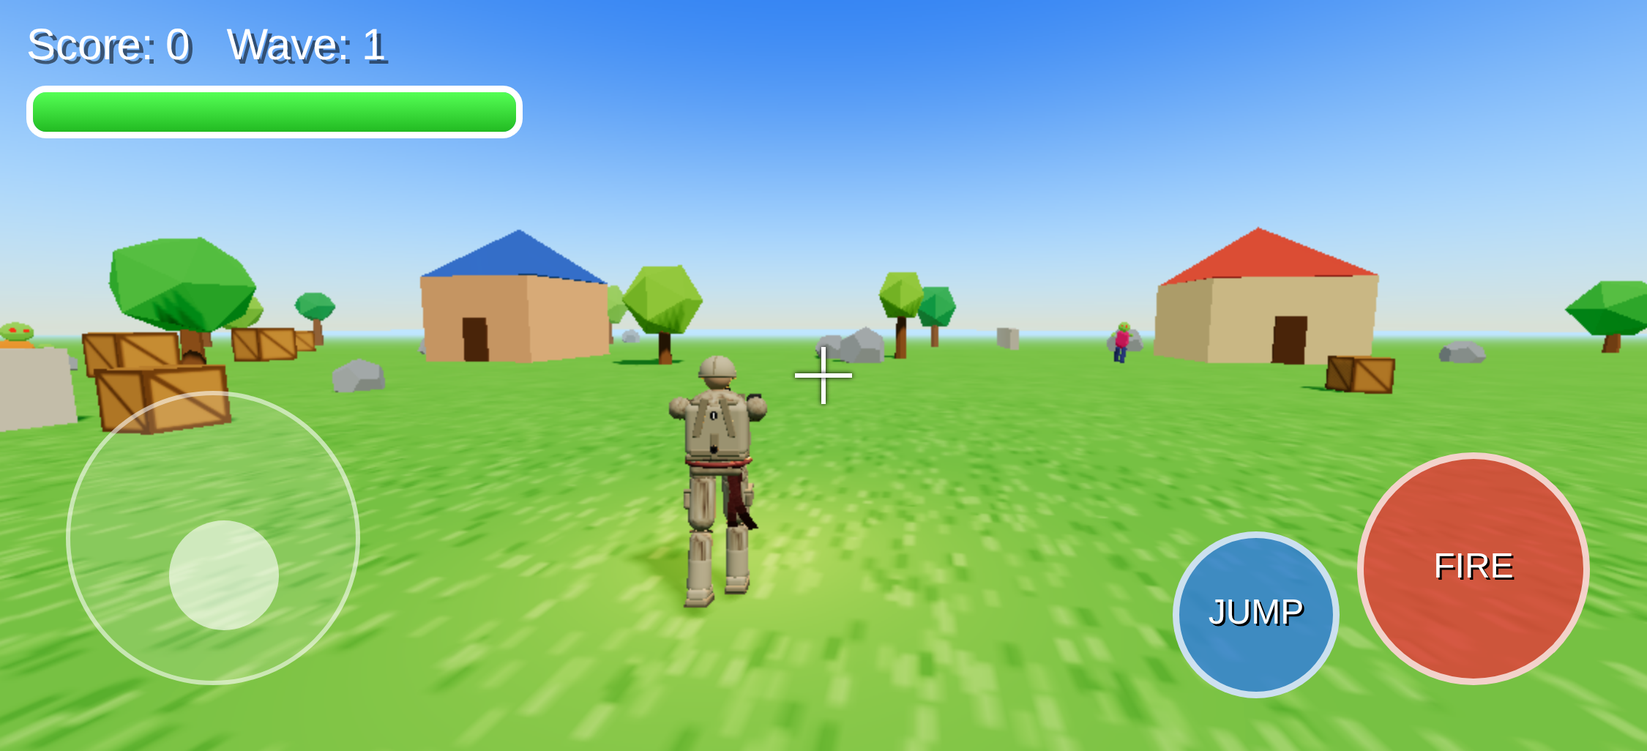
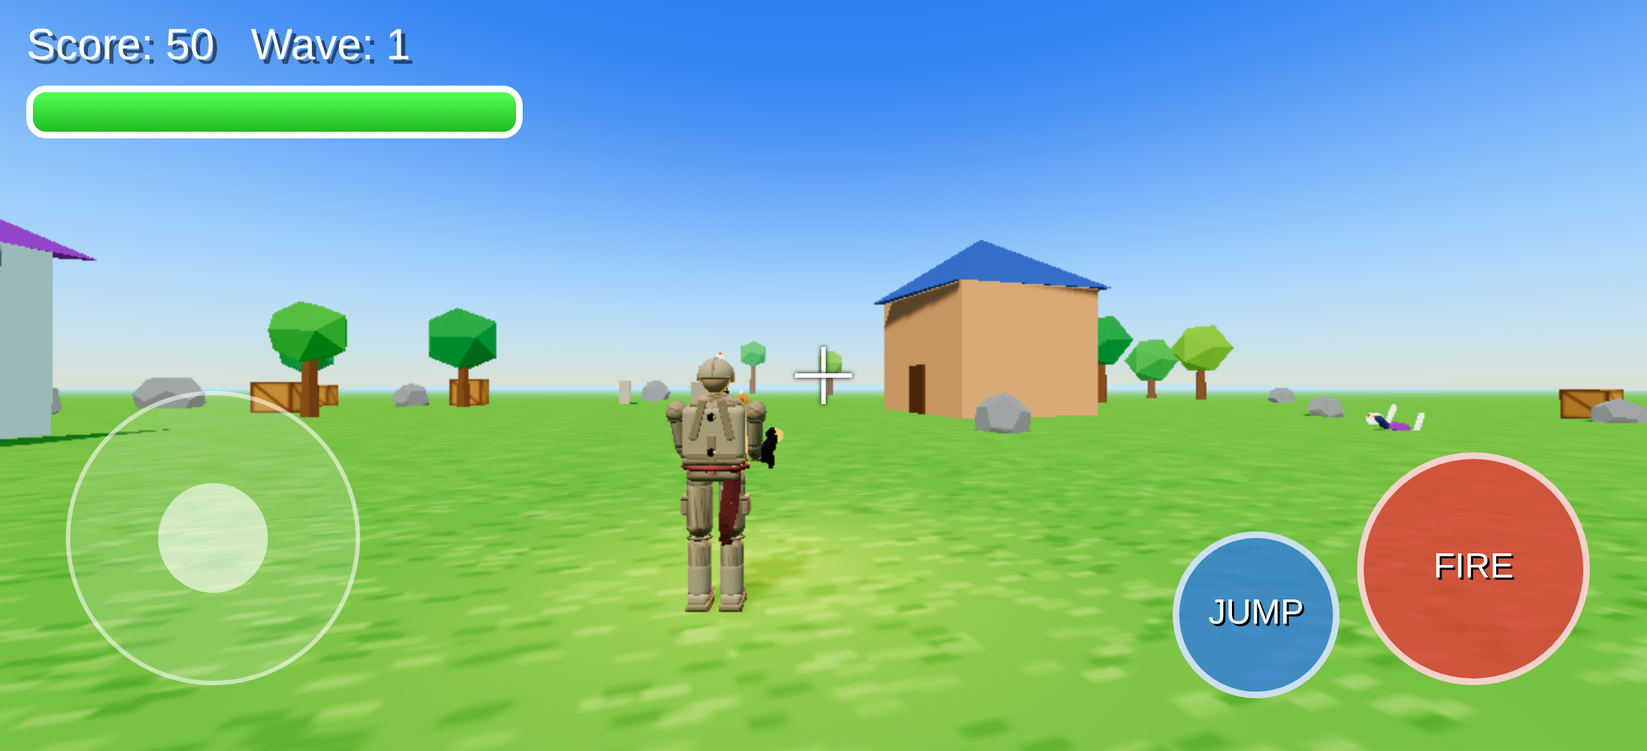
Auto-aim, decapitation, helicopter+parachute intro, pose/hose fixes

diff --git a/main.js b/main.js
@@ -1,4 +1,4 @@
-import * as THREE from 'three';import {makeSoldier} from './soldier.js';
+import * as THREE from 'three';import {makeSoldier} from './soldier.js';import {makeHeli,makeChute} from './heli.js';
 const $=id=>document.getElementById(id),Q=new URLSearchParams(location.search);
 const MOBILE=matchMedia('(pointer:coarse)').matches||'ontouchstart' in window;
 if(MOBILE)document.body.classList.add('touch');
@@ -45,14 +45,14 @@ let ac;const snd=(f,d,type='square',v=.15,slide=.3)=>{if(!ac)return;const o=ac.c
  g.gain.setValueAtTime(v,ac.currentTime);g.gain.exponentialRampToValueAtTime(.001,ac.currentTime+d);o.connect(g).connect(ac.destination);o.start();o.stop(ac.currentTime+d);};
 // input
 let yaw=0,pitch=-.1,firing=false,running=false;const keys={};
-addEventListener('keydown',e=>{keys[e.code]=true;if(e.code==='Space'){jump();e.preventDefault();}});addEventListener('keyup',e=>keys[e.code]=false);
+addEventListener('keydown',e=>{keys[e.code]=true;if(mode==='intro'){skipIntro();return;}if(e.code==='Space'){jump();e.preventDefault();}});addEventListener('keyup',e=>keys[e.code]=false);
 const cv=renderer.domElement;
-cv.addEventListener('mousedown',()=>{if(!running||MOBILE)return;if(document.pointerLockElement!==cv){try{const r=cv.requestPointerLock();r&&r.catch&&r.catch(()=>{});}catch(e){}}firing=true;});
+cv.addEventListener('mousedown',()=>{if(mode==='intro'){skipIntro();return;}if(!running||MOBILE)return;if(document.pointerLockElement!==cv){try{const r=cv.requestPointerLock();r&&r.catch&&r.catch(()=>{});}catch(e){}}firing=true;});
 addEventListener('mouseup',()=>firing=false);
 addEventListener('mousemove',e=>{if(document.pointerLockElement===cv&&Math.abs(e.movementX)<150&&Math.abs(e.movementY)<150)look(e.movementX,e.movementY,.0025);});
 const look=(dx,dy,k)=>{yaw-=dx*k;pitch=THREE.MathUtils.clamp(pitch-dy*k,-.7,.55);};
 const stick={id:null,ox:0,oy:0,x:0,y:0},lk={id:null,x:0,y:0};let fireId=null;const knob=$('stick').firstChild;
-addEventListener('touchstart',e=>{if(e.target.tagName==='BUTTON')return;e.preventDefault();document.body.classList.add('touch');
+addEventListener('touchstart',e=>{if(e.target.tagName==='BUTTON')return;e.preventDefault();if(mode==='intro'){skipIntro();return;}document.body.classList.add('touch');
  for(const t of e.changedTouches){const el=t.target;if(el.id==='jumpBtn'){jump();continue;}
   if(el.id==='fireBtn'){fireId=t.identifier;if(lk.id===null)Object.assign(lk,{id:t.identifier,x:t.clientX,y:t.clientY});continue;}
   if(t.clientX<innerWidth/2&&stick.id===null){const r=$('stick').getBoundingClientRect();Object.assign(stick,{id:t.identifier,ox:r.left+65,oy:r.top+65});moveStick(t);}
@@ -68,15 +68,14 @@ addEventListener('resize',onResize);addEventListener('orientationchange',()=>set
 const zSkin=toon(0x7fdc4a),shirts=[0xa04fd9,0xff8c2a,0x2ab3ff,0xe03a7a].map(c=>toon(c)),zPants=toon(0x3d4a8a),eyeM=new THREE.MeshBasicMaterial({color:0xff2a00});
 function makeZombie(){const g=new THREE.Group(),mats=[zSkin.clone(),shirts[Math.random()*4|0].clone(),zPants.clone()];mats.forEach(m=>m.transparent=true);
  const M=(geo,m,x,y,z,p=g)=>{const o=new THREE.Mesh(geo,m);o.position.set(x,y,z);o.castShadow=true;p.add(o);o.userData.root=g;return o};
- M(new THREE.CapsuleGeometry(.26,.35,4,10),mats[1],0,1.3,0).scale.set(1.1,1,.7);M(new THREE.SphereGeometry(.24,14,10),mats[0],0,1.9,.06);
- M(new THREE.SphereGeometry(.05,8,6),eyeM,-.09,1.94,.27);M(new THREE.SphereGeometry(.05,8,6),eyeM,.09,1.94,.27);
+ M(new THREE.CapsuleGeometry(.26,.35,4,10),mats[1],0,1.3,0).scale.set(1.1,1,.7);const head=M(new THREE.SphereGeometry(.24,14,10),mats[0],0,1.9,.06);M(new THREE.SphereGeometry(.05,8,6),eyeM,-.09,.04,.21,head);M(new THREE.SphereGeometry(.05,8,6),eyeM,.09,.04,.21,head);
  const legs=[];for(const x of[-.15,.15]){const l=new THREE.Group();l.position.set(x,.95,0);g.add(l);M(new THREE.CapsuleGeometry(.11,.65,4,8),mats[2],0,-.47,0,l);legs.push(l);}
  const arms=[];for(const x of[-.38,.38]){const a=new THREE.Group();a.position.set(x,1.55,0);g.add(a);M(new THREE.CapsuleGeometry(.08,.55,4,8),mats[0],0,-.35,0,a);a.rotation.x=-1.5;arms.push(a);}
- g.userData={legs,arms,mats,hp:0,dead:0,ph:Math.random()*6};return g;}
+ g.userData={legs,arms,mats,head,hp:0,dead:0,ph:Math.random()*6};return g;}
 let zombies=[],tracers=[],score=0,wave=0,hp=100,toSpawn=0,spawnT=0,fireT=0,vy=0,anim=0,curSpeed=0;
 const ZCAP=MOBILE?14:30;
-function reset(){zombies.forEach(z=>scene.remove(z));zombies=[];score=0;wave=0;hp=100;player.position.set(0,0,0);yaw=0;pitch=-.1;vy=0;nextWave();updHud();}
-function nextWave(){wave++;toSpawn=4+wave*3;spawnT=1;snd(200,.6,'sawtooth',.1,2);}
+function reset(){toSpawn=0;debris.forEach(d=>scene.remove(d.o));debris=[];lockT=null;zombies.forEach(z=>scene.remove(z));zombies=[];score=0;wave=0;hp=100;player.position.set(0,0,0);yaw=0;pitch=-.1;vy=0;nextWave();updHud();}
+function nextWave(){if(mode!=='play')return;wave++;toSpawn=4+wave*3;spawnT=1;snd(200,.6,'sawtooth',.1,2);}
 function spawn(){const z=makeZombie();let x,zz,tries=0;do{const a=Math.random()*Math.PI*2,r=rnd(22,32);x=player.position.x+Math.cos(a)*r;zz=player.position.z+Math.sin(a)*r;x=THREE.MathUtils.clamp(x,-ARENA,ARENA);zz=THREE.MathUtils.clamp(zz,-ARENA,ARENA);}
  while(tries++<10&&boxes.some(b=>Math.abs(b.x-x)<b.hx+.5&&Math.abs(b.z-zz)<b.hz+.5));z.position.set(x,0,zz);
  z.userData.hp=2+Math.floor(wave/2);z.userData.speed=1.4+wave*.15+Math.random()*.6;scene.add(z);zombies.push(z);}
@@ -86,10 +85,10 @@ function collide(p,r){for(const b of boxes){const cx=THREE.MathUtils.clamp(p.x,b
 function jump(){if(running&&player.position.y<=0.001){vy=6.5;snd(300,.15,'sine',.1,2);}}
 const rc=new THREE.Raycaster(),center=new THREE.Vector2(0,0);
 function shoot(){const u=player.userData;u.flash.visible=true;u.flashLight.intensity=8;u.flash.rotation.z=Math.random()*3;setTimeout(()=>{u.flash.visible=false;u.flashLight.intensity=0;},45);snd(900,.08,'square',.12,.2);
- rc.setFromCamera(center,cam);rc.far=120;const hits=rc.intersectObjects([...zombies.filter(z=>!z.userData.dead),...solids,ground],true);
+ if(lockT){const hp_=new THREE.Vector3();lockT.userData.head.getWorldPosition(hp_);rc.set(cam.position,hp_.sub(cam.position).normalize());}else rc.setFromCamera(center,cam);rc.far=120;const hits=rc.intersectObjects([...zombies.filter(z=>!z.userData.dead),...solids,ground],true);
  const o=new THREE.Vector3();u.muzzle.getWorldPosition(o);let end=hits.length?hits[0].point:rc.ray.at(120,new THREE.Vector3());
  if(hits.length){const z=hits[0].object.userData.root;if(z&&!z.userData.dead){z.userData.hp--;z.userData.hit=.1;const p=end.clone().sub(o).setY(0).normalize();z.position.addScaledVector(p,.25);
-  if(z.userData.hp<=0){z.userData.dead=.001;score+=10;snd(120,.4,'sawtooth',.15,.5);updHud();}}}
+  if(z.userData.hp<=0){z.userData.dead=.001;decap(z,p);score+=10;snd(120,.4,'sawtooth',.15,.5);updHud();}}}
  const t=new THREE.Line(new THREE.BufferGeometry().setFromPoints([o,end]),new THREE.LineBasicMaterial({color:0xfff27a,transparent:true}));t.userData.life=.06;scene.add(t);tracers.push(t);}
 const camRc=new THREE.Raycaster();const clock=new THREE.Clock();const closeup=Q.get('view')==='closeup';
 const fwd=new THREE.Vector3(),right=new THREE.Vector3(),v=new THREE.Vector3();
@@ -100,26 +99,80 @@ function loop(){requestAnimationFrame(loop);const dt=Math.min(clock.getDelta(),.
   player.position.addScaledVector(v,m?6.5*dt:0);collide(player.position,.4);curSpeed=m;anim+=dt*(m?1:0);
   vy-=20*dt;player.position.y=Math.max(0,player.position.y+vy*dt);if(player.position.y===0)vy=0;
   player.rotation.y=yaw+Math.PI;
-  fireT-=dt;if((firing||fireId!==null)&&fireT<=0){shoot();fireT=.1;}
+  autoAim(dt);fireT-=dt;if((firing||fireId!==null)&&fireT<=0){shoot();fireT=.1;}
   const alive=zombies.filter(z=>!z.userData.dead).length;
   if(toSpawn>0){spawnT-=dt;if(spawnT<=0&&alive<ZCAP){spawn();toSpawn--;spawnT=Math.max(.35,1.4-wave*.1);}}else if(!zombies.length){nextWave();updHud();}
   for(const z of [...zombies]){const u=z.userData;
-   if(u.dead){u.dead+=dt;z.rotation.x=Math.max(-Math.PI/2,-u.dead*3);u.mats.forEach(m=>m.opacity=Math.max(0,1-(u.dead-.6)));if(u.dead>1.7){scene.remove(z);zombies.splice(zombies.indexOf(z),1);}continue;}
+   if(u.dead){u.dead+=dt;z.rotation.x=Math.max(-Math.PI/2,-u.dead*3);u.mats.forEach(m=>m.opacity=Math.max(0,1-(u.dead-3)));if(u.dead>4.1){scene.remove(z);zombies.splice(zombies.indexOf(z),1);}continue;}
    if(u.hit>0){u.hit-=dt;u.mats[0].emissive.setHex(0xffffff);}else u.mats[0].emissive.setHex(0);
    const d=player.position.clone().sub(z.position);d.y=0;const dist=d.length();z.rotation.y=Math.atan2(d.x,d.z);u.ph+=dt*5;
    u.legs[0].rotation.x=Math.sin(u.ph)*.45;u.legs[1].rotation.x=-Math.sin(u.ph)*.45;u.arms[0].rotation.x=-1.5+Math.sin(u.ph)*.12;u.arms[1].rotation.x=-1.5-Math.sin(u.ph)*.12;z.rotation.z=Math.sin(u.ph*.5)*.12;
    if(dist>1){z.position.addScaledVector(d.normalize(),u.speed*dt);collide(z.position,.35);}
    else if(player.position.y<1.2){hp-=22*dt;updHud();if(Math.random()<dt*3)snd(80,.2,'sawtooth',.1,.5);
-    if(hp<=0){running=false;firing=false;fireId=null;document.body.classList.remove('playing');document.exitPointerLock&&document.exitPointerLock();$('final').textContent=`Score ${score} · Wave ${wave}`;$('over').classList.remove('hide');snd(300,1.2,'sawtooth',.2,.1);}}}
+    if(hp<=0){running=false;mode='over';lockT=null;firing=false;fireId=null;document.body.classList.remove('playing');document.exitPointerLock&&document.exitPointerLock();$('final').textContent=`Score ${score} · Wave ${wave}`;$('over').classList.remove('hide');snd(300,1.2,'sawtooth',.2,.1);}}}
  }
- player.userData.animate(T,curSpeed,player.position.y>.05,dt);
+ if(mode==='intro')intro(dt);updDebris(dt);updLock();
+ player.userData.animate(T,curSpeed,mode==='intro'?introAir:player.position.y>.05,dt);
  for(const t of [...tracers]){t.userData.life-=dt;t.material.opacity=t.userData.life/.06;if(t.userData.life<=0){scene.remove(t);t.geometry.dispose();tracers.splice(tracers.indexOf(t),1);}}
  const P=player.position;
- if(closeup&&!running){player.rotation.y=Math.PI*.22;cam.position.set(P.x+.5,1.35,P.z+2.2);cam.lookAt(P.x,1.15,P.z);}
- else{cam.rotation.set(pitch,yaw,0);const f=new THREE.Vector3(0,0,-1).applyEuler(cam.rotation);const piv=new THREE.Vector3(P.x,P.y+1.75,P.z).addScaledVector(right,.8);const back=f.clone().negate();camRc.set(piv,back);camRc.far=4;const ch=camRc.intersectObjects(solids,false);const cd=ch.length?Math.max(.4,ch[0].distance-.3):4;cam.position.copy(piv).addScaledVector(back,cd);if(cam.position.y<.3)cam.position.y=.3;}
+ if(closeup&&!running){player.rotation.y=-Math.PI*.1;cam.position.set(P.x+.15,1.4,P.z+2.3);cam.lookAt(P.x,1.15,P.z);}
+ else if(mode!=='intro'){cam.rotation.set(pitch,yaw,0);const f=new THREE.Vector3(0,0,-1).applyEuler(cam.rotation);const piv=new THREE.Vector3(P.x,P.y+1.75,P.z).addScaledVector(right,.8);const back=f.clone().negate();camRc.set(piv,back);camRc.far=4;const ch=camRc.intersectObjects(solids,false);const cd=ch.length?Math.max(.4,ch[0].distance-.3):4;cam.position.copy(piv).addScaledVector(back,cd);if(cam.position.y<.3)cam.position.y=.3;}
  sun.position.set(P.x+20,40,P.z+15);sun.target.position.set(P.x,0,P.z);
  renderer.render(scene,cam);}
-function begin(){ac=ac||new(window.AudioContext||window.webkitAudioContext)();ac.resume&&ac.resume();$('start').classList.add('hide');$('over').classList.add('hide');document.body.classList.add('playing');reset();fireT=0;running=true;}
+function begin(){ac=ac||new(window.AudioContext||window.webkitAudioContext)();ac.resume&&ac.resume();$('start').classList.add('hide');$('over').classList.add('hide');reset();fireT=0;startIntro();}
 $('startBtn').onclick=begin;$('restartBtn').onclick=begin;
 if(closeup){$('start').classList.add('hide');$('hud').classList.add('hide');}
+
+// ===== auto-aim =====
+let lockT=null;const lockEl=$('lock'),tmpV=new THREE.Vector3(),losRc=new THREE.Raycaster();
+const angD=a=>Math.atan2(Math.sin(a),Math.cos(a));
+function los(z){z.userData.head.getWorldPosition(tmpV);const d=tmpV.clone().sub(cam.position);const L=d.length();losRc.set(cam.position,d.normalize());losRc.far=L;return !losRc.intersectObjects(solids,false).length;}
+function autoAim(dt){const want=firing||fireId!==null;if(!want){lockT=null;return;}
+ if(lockT&&(lockT.userData.dead||!zombies.includes(lockT)))lockT=null;
+ if(!lockT){let best=null,bs=1e9;const f=new THREE.Vector3(-Math.sin(yaw),0,-Math.cos(yaw));
+  for(const z of zombies){if(z.userData.dead)continue;const d=z.position.clone().sub(player.position);d.y=0;const dist=d.length();if(dist>45)continue;
+   const ang=Math.acos(THREE.MathUtils.clamp(d.normalize().dot(f),-1,1));let s=dist+ang*6+(los(z)?0:40);if(s<bs){bs=s;best=z;}}lockT=best;}
+ if(!lockT)return;lockT.userData.head.getWorldPosition(tmpV);const d=tmpV.clone().sub(cam.position).normalize();
+ const ty=Math.atan2(-d.x,-d.z),tp=THREE.MathUtils.clamp(Math.asin(d.y),-.7,.55);const k=Math.min(1,dt*12);yaw+=angD(ty-yaw)*k;pitch+=(tp-pitch)*k;}
+function updLock(){if(!lockT||lockT.userData.dead){lockEl.style.display='none';return;}lockT.userData.head.getWorldPosition(tmpV);tmpV.project(cam);
+ if(tmpV.z>1){lockEl.style.display='none';return;}lockEl.style.display='block';lockEl.style.left=((tmpV.x+1)/2*innerWidth)+'px';lockEl.style.top=((1-tmpV.y)/2*innerHeight)+'px';}
+// ===== decapitation + blood =====
+let debris=[];let headsDetached=0;
+function decap(z,dir){const h=z.userData.head;scene.attach(h);headsDetached++;
+ debris.push({o:h,v:new THREE.Vector3(dir.x*3+rnd(-1,1),rnd(5,7),dir.z*3+rnd(-1,1)),s:new THREE.Vector3(rnd(-12,12),rnd(-12,12),rnd(-12,12)),t:0,r:.24,mat:h.material});
+ const n=MOBILE?24:40,pos=new Float32Array(n*3),col=new Float32Array(n*3),vel=[];h.getWorldPosition(tmpV);
+ for(let i=0;i<n;i++){pos.set([tmpV.x,tmpV.y-.15,tmpV.z],i*3);const g=Math.random()<.5;col.set(g?[.3,1,.2]:[.9,.05,.05],i*3);vel.push(new THREE.Vector3(rnd(-3,3),rnd(1,5),rnd(-3,3)));}
+ const geo=new THREE.BufferGeometry();geo.setAttribute('position',new THREE.BufferAttribute(pos,3));geo.setAttribute('color',new THREE.BufferAttribute(col,3));
+ const pts=new THREE.Points(geo,new THREE.PointsMaterial({size:.12,vertexColors:true,transparent:true}));scene.add(pts);debris.push({o:pts,parts:vel,t:0});}
+function updDebris(dt){for(const d of [...debris]){d.t+=dt;
+ if(d.parts){const a=d.o.geometry.attributes.position;for(let i=0;i<d.parts.length;i++){const v=d.parts[i];v.y-=15*dt;a.array[i*3]+=v.x*dt;a.array[i*3+1]=Math.max(.02,a.array[i*3+1]+v.y*dt);a.array[i*3+2]+=v.z*dt;}
+  a.needsUpdate=true;d.o.material.opacity=Math.max(0,1-d.t/1.2);if(d.t>1.2){scene.remove(d.o);d.o.geometry.dispose();debris.splice(debris.indexOf(d),1);}continue;}
+ const o=d.o;d.v.y-=20*dt;o.position.addScaledVector(d.v,dt);o.rotation.x+=d.s.x*dt;o.rotation.y+=d.s.y*dt;o.rotation.z+=d.s.z*dt;
+ if(o.position.y<d.r){o.position.y=d.r;if(Math.abs(d.v.y)>1){d.v.y=-d.v.y*.45;}else d.v.y=0;d.v.x*=.7;d.v.z*=.7;d.s.multiplyScalar(.6);}
+ d.mat.opacity=Math.max(0,1-(d.t-3));if(d.t>4.2){scene.remove(o);debris.splice(debris.indexOf(d),1);}}}
+// ===== intro: helicopter + parachute =====
+let mode='menu',introT=0,introAir=false,chuteOpen=false;const heli=makeHeli();heli.visible=false;scene.add(heli);const chute=makeChute();chute.visible=false;player.add(chute);
+let rotor=null;const HY=24,HV=9;
+function rotorSound(on){if(!ac)return;if(on&&!rotor){const o=ac.createOscillator(),f=ac.createBiquadFilter(),g=ac.createGain(),l=ac.createOscillator(),lg=ac.createGain();
+  o.type='sawtooth';o.frequency.value=55;f.type='lowpass';f.frequency.value=300;l.frequency.value=13;lg.gain.value=.08;l.connect(lg).connect(g.gain);g.gain.value=.08;
+  o.connect(f).connect(g).connect(ac.destination);o.start();l.start();rotor={o,l,g};}
+ if(!on&&rotor){const r=rotor;rotor=null;r.g.gain.cancelScheduledValues(ac.currentTime);r.g.gain.setTargetAtTime(0,ac.currentTime,.4);setTimeout(()=>{r.o.stop();r.l.stop();},1500);}}
+function startIntro(){mode='intro';introT=0;chuteOpen=false;heli.visible=true;chute.visible=false;document.body.classList.remove('playing');$('skip').classList.remove('hide');rotorSound(true);}
+function heliPos(t){return new THREE.Vector3(-55+t*HV,HY+Math.sin(t)*.4,-2);}
+function intro(dt){introT+=dt;const t=introT,P=player.position;heli.userData.spin(dt);heli.position.copy(heliPos(t));heli.rotation.z=t>7?-.12:-.05;
+ if(t>7)heli.position.y+=(t-7)*(t-7)*.6;
+ if(t<6){introAir=true;P.copy(heli.position).add(new THREE.Vector3(-.2,-.75,1.05));player.rotation.set(0,0,0);curSpeed=0;
+  cam.position.copy(heli.position).add(new THREE.Vector3(-14+t*.8,-5,16));cam.lookAt(heli.position);}
+ else{if(t<6.05){vy=0;}if(P.y>0){if(!chuteOpen&&t>7.2){chuteOpen=true;chute.visible=true;chute.scale.set(.1,.1,.1);snd(400,.3,'triangle',.15,.5);}
+   if(chuteOpen){chute.scale.lerp(new THREE.Vector3(1,1,1),Math.min(1,dt*4));vy+=(-5-vy)*Math.min(1,dt*3);player.rotation.z=Math.sin(t*1.6)*.15;player.rotation.x=0;P.x+=Math.sin(t*.8)*dt*.6;}
+   else{vy-=20*dt;vy=Math.max(vy,-22);player.rotation.x=.6;}
+   P.z+=(0-P.z)*dt*.5;P.x+=(0-P.x)*dt*.5;P.y=Math.max(0,P.y+vy*dt);introAir=true;
+   cam.position.lerp(new THREE.Vector3(P.x+7,P.y+(chuteOpen?3:4),P.z+9),Math.min(1,dt*3));cam.lookAt(P.x,P.y+(chuteOpen?2:1),P.z);}
+  else{introAir=false;player.rotation.set(0,player.rotation.y,0);vy=0;if(!chute.userData.land)chute.userData.land=t;const lt=t-chute.userData.land;
+   chute.userData.can.scale.y=1.3*Math.max(.05,1-lt*1.5);chute.userData.can.position.y=4.2*Math.max(.1,1-lt*.9);chute.userData.mat.opacity=Math.max(0,1-lt);chute.userData.cords.material.opacity=Math.max(0,1-lt*2);
+   cam.position.lerp(new THREE.Vector3(P.x+5,2.5,P.z+7),Math.min(1,dt*3));cam.lookAt(P.x,1,P.z);if(lt>1.4)endIntro();}}}
+function skipIntro(){player.position.set(0,0,0);endIntro();}
+function endIntro(){mode='play';heli.visible=false;rotorSound(false);chute.visible=false;delete chute.userData.land;chute.userData.can.scale.y=1.3;chute.userData.can.position.y=4.2;chute.userData.mat.opacity=1;chute.userData.cords.material.opacity=1;
+ player.rotation.set(0,0,0);vy=0;introAir=false;$('skip').classList.add('hide');document.body.classList.add('playing');running=true;wave=0;nextWave();updHud();}
+window.__game={get mode(){return mode},get score(){return score},get heads(){return headsDetached},get zombies(){return zombies.length},setIntroT(t){introT=t},spawnNear(){spawn();const z=zombies[zombies.length-1];z.position.set(player.position.x-Math.sin(yaw)*5,0,player.position.z-Math.cos(yaw)*5);z.userData.hp=1;},skip:()=>skipIntro()};
 reset();loop();

diff --git a/soldier.js b/soldier.js
@@ -61,7 +61,7 @@ export function makeSoldier(){
  M(new THREE.TorusGeometry(.128,.008,8,28,Math.PI),tanDark,head,0,.015,-.005,0,0,0).rotation.set(0,0,0);
  M(ring(.132,.012),tanDark,head,0,-.01,-.005,Math.PI/2+.12);         // brim rim
  // corrugated hose: filter -> right chest
- const curve=new THREE.CatmullRomCurve3([new THREE.Vector3(0,1.685,.15),new THREE.Vector3(-.03,1.62,.2),new THREE.Vector3(-.07,1.52,.2),new THREE.Vector3(-.1,1.42,.19),new THREE.Vector3(-.13,1.33,.17)]);
+ const curve=new THREE.CatmullRomCurve3([new THREE.Vector3(0,1.685,.15),new THREE.Vector3(-.02,1.645,.2),new THREE.Vector3(-.06,1.58,.215),new THREE.Vector3(-.11,1.5,.205),new THREE.Vector3(-.15,1.42,.19),new THREE.Vector3(-.17,1.36,.175)]);
  const N=26;for(let i=0;i<=N;i++){const p=curve.getPoint(i/N),t=curve.getTangent(i/N);const r=M(new THREE.TorusGeometry(.016,.007,6,12),black,body,p.x,p.y,p.z);r.quaternion.setFromUnitVectors(new THREE.Vector3(0,0,1),t);r.castShadow=false;}
  // ---- arms ----
  const mkArm=(s)=>{const sh=G(body,s*.29,1.48,0);M(sph(.085),camo,sh);M(ring(.075,.008),seam,sh,0,-.05,0,Math.PI/2);
@@ -87,7 +87,7 @@ export function makeSoldier(){
  const tails=[];for(const [x,len] of[[-.16,7],[-.12,9]]){let p=G(body,x,1.05,-.12);const segs=[];
   for(let i=0;i<len;i++){const s=G(p,0,i?-.075:0,0);M(new THREE.PlaneGeometry(.075,.08),sash,s,0,-.04,0);segs.push(s);p=s;}tails.push(segs);}
  // ---- rifle ----
- const rifle=G(body,-.12,1.3,.32);
+ const rifle=G(body,-.36,1.18,.42);
  M(RB(.07,.11,.42,.015),gun,rifle,0,0,0);                    // receiver
  M(RB(.06,.13,.24,.02),gun,rifle,0,-.02,-.3);                 // stock
  M(new THREE.CylinderGeometry(.018,.018,.35,12),gun,rifle,0,.02,.38,Math.PI/2); // barrel
@@ -101,13 +101,13 @@ export function makeSoldier(){
  const flash=new THREE.Mesh(new THREE.SphereGeometry(.07,8,6),new THREE.MeshBasicMaterial({color:0xffd24a}));flash.scale.set(1,1,2.2);flash.visible=false;muzzle.add(flash);
  const flashLight=new THREE.PointLight(0xffaa33,0,5);muzzle.add(flashLight);
  // aim pose
- R.sh.rotation.set(-1.25,0,.15);R.el.rotation.set(-.55,0,0);L.sh.rotation.set(-1.35,0,-.55);L.el.rotation.set(-.25,0,0);
+ R.sh.rotation.set(-.3,0,.08);R.el.rotation.set(-.9,0,0);L.sh.rotation.set(-.25,0,-.12);L.el.rotation.set(-.6,0,0);
  root.traverse(o=>{if(o.isMesh)o.userData.player=true;});
  root.userData={muzzle,flash,flashLight,
   animate(t,speed,air,dt){const ph=t*11,a=Math.min(speed,1);
    const sw=air?0:Math.sin(ph)*.75*a;LL.hip.rotation.x=air?-.6:sw;RL.hip.rotation.x=air?.3:-sw;
    LL.kn.rotation.x=air?.9:Math.max(0,-Math.sin(ph))*1.1*a;RL.kn.rotation.x=air?.3:Math.max(0,Math.sin(ph))*1.1*a;
    body.position.y=air?0:Math.abs(Math.sin(ph))*.05*a;body.rotation.x=a*.1;
-   R.sh.rotation.x=-1.25+Math.sin(ph*2)*.04*a;L.sh.rotation.x=-1.35+Math.sin(ph*2)*.04*a;
+   R.sh.rotation.x=-.3+Math.sin(ph*2)*.04*a;L.sh.rotation.x=-.25+Math.sin(ph)*.3*a+Math.sin(ph*2)*.04*a;
    tails.forEach((segs,k)=>segs.forEach((s,i)=>{s.rotation.x=-(.15+a*.5)*(i?0.25:1)+Math.sin(t*4+i*.7+k)*.12*(1+a);s.rotation.z=Math.sin(t*3+i*.5+k*2)*.08;}));}};
  return root;}

diff --git a/heli.js b/heli.js
@@ -1,0 +1,31 @@
+import * as THREE from 'three';
+const T=(c,o={})=>new THREE.MeshStandardMaterial({color:c,roughness:.6,...o});
+export function makeHeli(){
+ const g=new THREE.Group(),body=T(0x5d6b3a),dark=T(0x2a2d2a),glass=T(0x7fd0ff,{transparent:true,opacity:.55,metalness:.3,roughness:.1}),stripe=T(0xffcc1a);
+ const M=(geo,mat,p,x=0,y=0,z=0,rx=0,ry=0,rz=0)=>{const m=new THREE.Mesh(geo,mat);m.position.set(x,y,z);m.rotation.set(rx,ry,rz);m.castShadow=true;p.add(m);return m;};
+ // fuselage along +X (nose)
+ M(new THREE.CapsuleGeometry(1.1,2.6,8,20),body,g,0,0,0,0,0,Math.PI/2).scale.set(1,1,.9);
+ M(new THREE.SphereGeometry(1.05,24,16,0,Math.PI*2,0,Math.PI/2),glass,g,1.7,.15,0,0,0,-Math.PI/2).scale.set(1,.9,.85);
+ M(new THREE.BoxGeometry(1.4,1.3,.05),dark,g,-.1,-.05,.99);           // open side door (dark)
+ M(new THREE.BoxGeometry(2.6,.12,.02),stripe,g,-.2,.45,1.0);
+ M(new THREE.CylinderGeometry(.18,.42,4.6,14),body,g,-4,.35,0,0,0,Math.PI/2); // tail boom
+ M(new THREE.BoxGeometry(.9,1.4,.1),body,g,-6.1,1,0,0,0,-.35);                // fin
+ M(new THREE.BoxGeometry(.7,.08,1.6),body,g,-5.6,.4,0);                       // stabilizer
+ M(new THREE.CylinderGeometry(.5,.7,.5,16),dark,g,-.2,1.05,0);                // engine hump
+ M(new THREE.CylinderGeometry(.08,.08,.6,8),dark,g,-.2,1.5,0);                // mast
+ const main=new THREE.Group();main.position.set(-.2,1.8,0);g.add(main);M(new THREE.CylinderGeometry(.18,.18,.15,12),dark,main);
+ for(let i=0;i<4;i++){const b=new THREE.Group();b.rotation.y=i*Math.PI/2;main.add(b);M(new THREE.BoxGeometry(4.6,.04,.28),dark,b,2.4,0,0,.04);}
+ const tail=new THREE.Group();tail.position.set(-6.2,1.05,.15);g.add(tail);
+ for(let i=0;i<2;i++)M(new THREE.BoxGeometry(.1,1.3,.03),dark,tail,0,0,0,0,0,i*Math.PI/2);
+ for(const z of[-.8,.8]){M(new THREE.CylinderGeometry(.06,.06,3.6,8),dark,g,.2,-1.35,z,0,0,Math.PI/2);
+  for(const x of[-.6,.9])M(new THREE.CylinderGeometry(.05,.05,.5,6),dark,g,x,-1.1,z*.85,z>0?-.3:.3);}
+ g.userData={spin(dt){main.rotation.y+=dt*28;tail.rotation.z+=dt*40;}};return g;}
+export function makeChute(){
+ const g=new THREE.Group();const c=document.createElement('canvas');c.width=256;c.height=32;const x=c.getContext('2d');
+ for(let i=0;i<8;i++){x.fillStyle=i%2?'#ffffff':'#ff4d2e';x.fillRect(i*32,0,32,32);}const t=new THREE.CanvasTexture(c);t.colorSpace=THREE.SRGBColorSpace;
+ const mat=new THREE.MeshStandardMaterial({map:t,side:THREE.DoubleSide,transparent:true,roughness:.8});
+ const can=new THREE.Mesh(new THREE.SphereGeometry(1,24,10,0,Math.PI*2,0,Math.PI*.42),mat);can.scale.set(2.6,1.3,2.6);can.position.y=4.2;can.castShadow=true;g.add(can);
+ const pts=[];const rim=Math.sin(Math.PI*.42)*2.6,rimY=4.2+Math.cos(Math.PI*.42)*1.3;
+ for(let i=0;i<10;i++){const a=i/10*Math.PI*2;pts.push(new THREE.Vector3(Math.cos(a)*rim,rimY,Math.sin(a)*rim),new THREE.Vector3(i<5?.2:-.2,1.5,0));}
+ const cords=new THREE.LineSegments(new THREE.BufferGeometry().setFromPoints(pts),new THREE.LineBasicMaterial({color:0x222222,transparent:true}));g.add(cords);
+ g.userData={can,mat,cords};return g;}

diff --git a/index.html b/index.html
@@ -21,11 +21,12 @@ button{font-family:inherit;font-size:30px;padding:18px 56px;border-radius:16px;b
 #jumpBtn{width:70px;height:70px;right:calc(140px + env(safe-area-inset-right));bottom:calc(24px + env(safe-area-inset-bottom));background:#2f7de1cc}
 #stick{position:fixed;width:130px;height:130px;border-radius:50%;background:#fff2;border:2px solid #fff8;display:none;pointer-events:none;left:calc(30px + env(safe-area-inset-left));bottom:calc(30px + env(safe-area-inset-bottom))}
 #stick i{position:absolute;left:40px;top:40px;width:50px;height:50px;border-radius:50%;background:#fff9}.touch.playing #stick{display:block}
-</style>
+#lock{position:fixed;width:34px;height:34px;margin:-17px 0 0 -17px;border:3px solid #ff3030;border-radius:50%;box-shadow:0 0 6px #f00;pointer-events:none;display:none}
+#skip{position:fixed;right:calc(20px + env(safe-area-inset-right));top:calc(16px + env(safe-area-inset-top));background:#0008;padding:10px 16px;border-radius:10px;font-size:15px;pointer-events:none}</style>
 <script type="importmap">{"imports":{"three":"https://unpkg.com/three@0.160.0/build/three.module.js","three/addons/":"https://unpkg.com/three@0.160.0/examples/jsm/"}}</script>
 </head><body>
 <div id="hud">Score: <span id="score">0</span> &nbsp; Wave: <span id="wave">1</span><div id="hpbar"><div id="hp"></div></div></div>
-<div id="cross"></div><div id="stick"><i></i></div>
+<div id="cross"></div><div id="lock"></div><div id="skip" class="hide">TAP / CLICK / ANY KEY TO SKIP ▶</div><div id="stick"><i></i></div>
 <div id="fireBtn" class="tb">FIRE</div><div id="jumpBtn" class="tb">JUMP</div>
 <div id="start" class="ov"><h1>SOLDIER vs ZOMBIES</h1>
 <p>📱 Left thumb: move · Drag right side: look · FIRE (hold) · JUMP<br>🖥 WASD move · Mouse look · Click shoot · Space jump · Esc frees mouse</p><button id="startBtn">PLAY</button></div>
